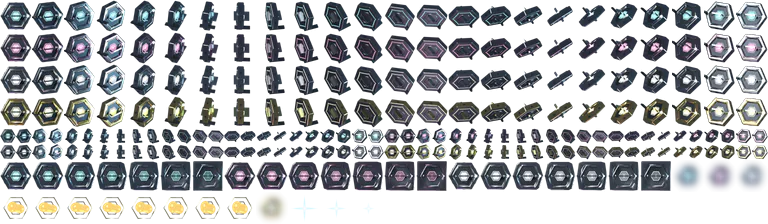
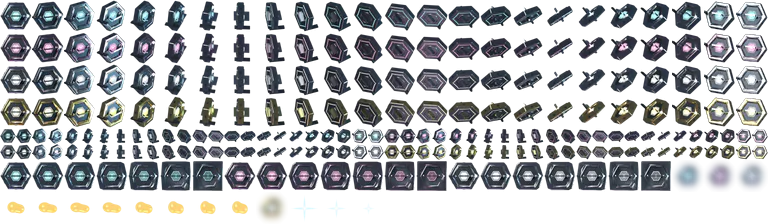
Re-render the nanite cells without the hex ring around the bead
Rendered with the corrected bead cleanup (--only=cells, NANITE_CPU=1);
the 8 bead cells are now the gold bead alone, and the chip frames are
unchanged. A new test asserts no cool or neutral opaque pixel in any
bead cell (the old sheet had 60-90 per frame from the ring).

Claude-Session: https://claude.ai/code/session_01NWLKVy5sELQXTx7JX5F9Zr

Changed region(s): [[0.0, 0.875, 0.3438, 0.9688]]

diff --git a/src/lib/rexonance-nanites.ts b/src/lib/rexonance-nanites.ts
@@ -2,7 +2,7 @@
 // The Rexonance nanite kit (owner, 2026-10-16: 「超大幅な改善で。」): Blender-
 // rendered hex nanite chips, comets, clamps, latches, scan planes, molten
 // droplets, shock rings and the gold guideway conduit, with each plate's
-// real outline (seams) and gold box. 4 files, 256326 bytes.
+// real outline (seams) and gold box. 4 files, 254614 bytes.
 
 /** The kit's folder (public/). */
 export const REXONANCE_NANITE_DIR = "/rexonance-nanites-20261021" as const;
@@ -323,11 +323,11 @@ export const REXONANCE_NANITE_ASSETS = [
 
 /** The files' bytes. */
 export const REXONANCE_NANITE_BYTES = {
-  cells: 56052,
+  cells: 54340,
   comets: 9722,
   fx: 42004,
   guide: 148548,
-  total: 256326,
+  total: 254614,
 } as const;
 
 /** The suit files the guide and the seams were built from (the first 16 hex
